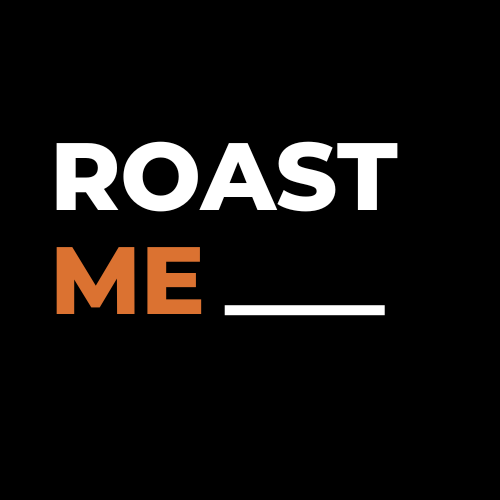
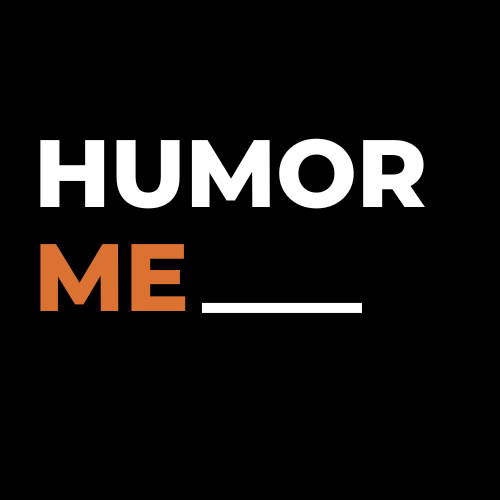
added jokes api

Changed region(s): [[0.06, 0.27, 0.87, 0.45], [0.06, 0.48, 0.78, 0.63]]

diff --git a/views/main_page.py b/views/main_page.py
@@ -5,7 +5,7 @@ from PySide6.QtGui import QAction, QMouseEvent, Qt, QPixmap
 from PySide6.QtWidgets import QFrame, QMenu, QPushButton, QLabel, QVBoxLayout, QHBoxLayout, \
     QWidget
 
-from core.api import fetchInsult
+from core.api import fetchInsult, fetchJoke
 from core.context_menu import open_settings, quit_application
 from core.signalBus import signalBus
 
@@ -17,6 +17,7 @@ class MainPage(QFrame):
         self.y = 64
         self.s = QSize(self.x, self.y)
         self.resize(self.s)
+        self.toggler = False
 
         img = QLabel()
         pixmap = QPixmap("./assets/roast_me_small.png")
@@ -56,7 +57,7 @@ class MainPage(QFrame):
         self.bubble_timer.setSingleShot(True)
 
         # at every interval(ms), fetch an insult
-        interval = 3600000
+        interval = 1800000
 
         self.insult_timer = QTimer()
         self.insult_timer.setInterval(interval)
@@ -76,10 +77,14 @@ class MainPage(QFrame):
         self.insult_timer.start()
 
     def showInsult(self):
-        text = fetchInsult()
+        if self.toggler:
+            text = fetchInsult()
+        else:
+            text = fetchJoke()
         self.bubble.showBubble(text)
         self.bubble_timer.start()
         signalBus.onEnlargeWindow.emit(self.bubble.sizeHint())
+        self.toggler = not self.toggler
 
     def removeInsult(self):
         self.bubble.closeBubble()

diff --git a/core/api.py b/core/api.py
@@ -10,3 +10,17 @@ def fetchInsult():
         return r_dict
     except Exception as error:
         return error
+
+
+def fetchJoke():
+    url = "https://icanhazdadjoke.com/"
+    agent = "My Library (https://github.com/Ndeh-007/RoastMe)"
+    header = {"User-Agent": agent, "Accept": "application/json"}
+    r = requests.get(url=url, headers=header)
+    print(r.content)
+    r_json = r.json()
+    try:
+        r_dict = r_json.get("joke")
+        return r_dict
+    except Exception as error:
+        return error

diff --git a/ReadMe.md b/ReadMe.md
@@ -1,8 +1,8 @@
-# Roast Me
+# Humor Me
 
-## Insults you at random
+## Description
 A small python application, built with pyside6. It fetches insult from [Evil Insults](https://evilinsult.com/api/#generate-insult-get).
-Some insults are more ...potent than others. 
+Some insults are more ...potent than others. It also gets dad jokes from [icanhazdadjoke](https://icanhazdadjoke.com/api)
 
 ![img_1.png](/assets/img_1.png)
 
@@ -11,7 +11,7 @@ When you run the main entry point `main.py` it creates a floating window stuck t
 
 ![img.png](/assets/img.png)
 
-Double-clicking on the roast me floating element will fetch and insult. 
+Double-clicking on the roast me floating element will fetch and insult or a joke. 
 By defaults, insults get show every 1 hour
 
 Right-click on the element to close the window
@@ -21,4 +21,4 @@ Right-click on the element to close the window
 `Note` To completely close the application, after closing the main window, also close the window from system tray.
 
 ## Personalization
-Currently, there exists no ui support to personalize the insults
+Currently, there exists no ui support to personalize the insults/jokes
